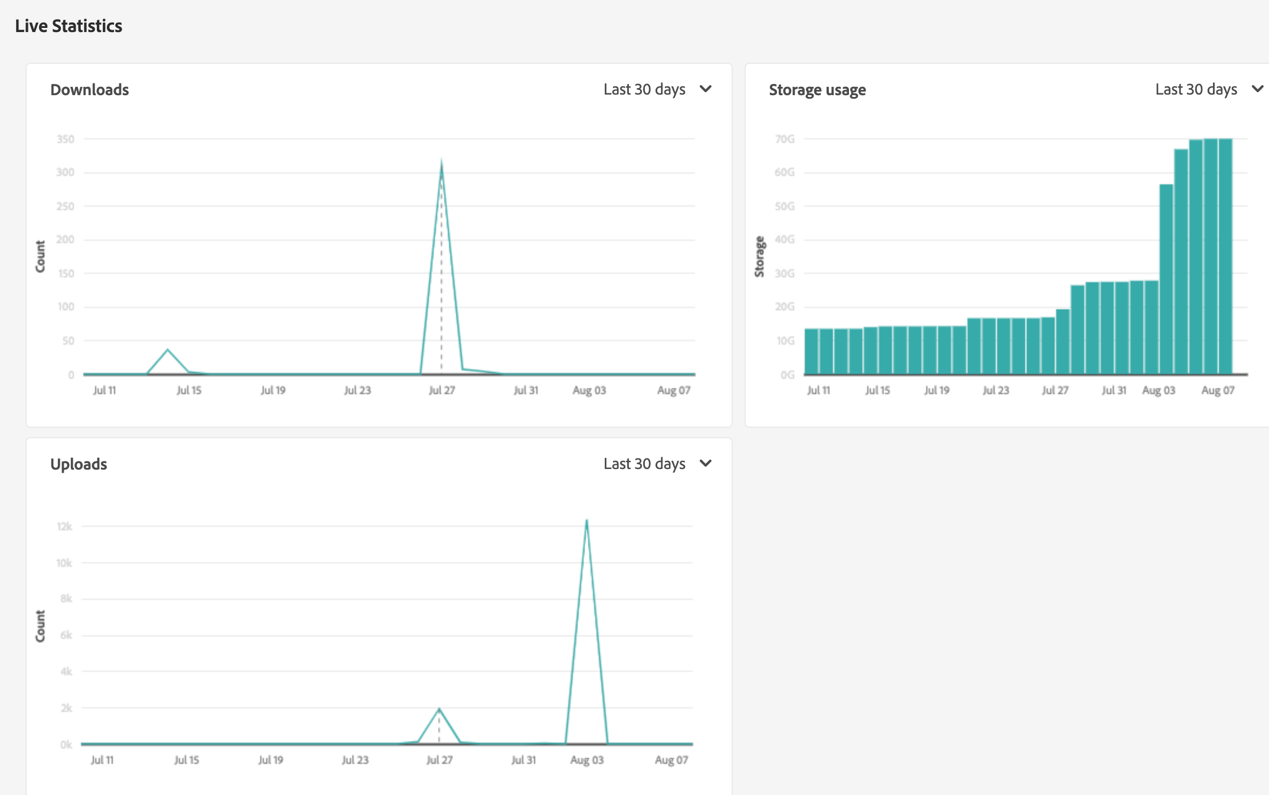
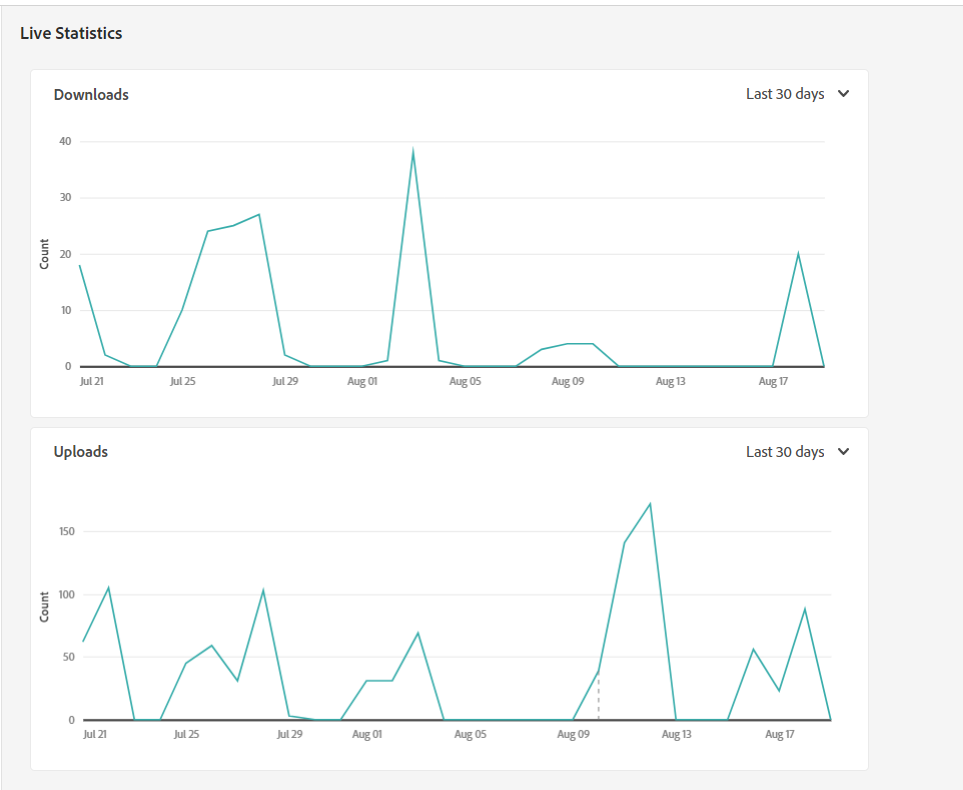
Incorporated PM feedback

diff --git a/help/manage-collections.md b/help/manage-collections.md
@@ -23,9 +23,15 @@ You can perform the following tasks to manage and use collections:
 
 * [Add assets to a collection](#add-assets-to-collection)
 
+* [Create a Smart Collection](#create-smart-collection)
+
+* [Edit a Smart Collection](#edit-smart-collection)
+
 * [Remove assets from a collection](#remove-assets-from-collection)
 
 * [View and edit collection metadata](#view-edit-collection-metadata)
+
+* [Share links for collections](#share-collection-links)
 
 * [Download a collection](#download-collection)
 

diff --git a/help/manage-notifications.md b/help/manage-notifications.md
@@ -35,7 +35,7 @@ You can choose and subscribe from a list of categories to receive notifications.
      </tr>
      <tr>
       <td>External Share of subscribed content</td>
-      <td>You receive a notification when a user generates a public link for your subscribed asset, folder, or collection.</td>
+      <td>You receive a notification when a user generates a public link for your subscribed asset or folder.</td>
      </tr>
      <tr>
       <td>Modification of subscribed content</td>

diff --git a/help/manage-reports.md b/help/manage-reports.md
@@ -23,7 +23,11 @@ Navigate to **[!UICONTROL Settings]** > **[!UICONTROL Live Statistics]** to view
 
 * **Uploads**: The number assets uploaded to the Assets Essentials environment in the last 30 days or 12 months represented using a line chart.
 
+<!--
+
 * **Storage usage**: The storage usage, in gigabytes (GB), for the Assets Essentials environment, for the last 30 days or 12 months represented using a bar chart.
+
+-->
 
 ## Create a Download report {#create-download-report}
 
